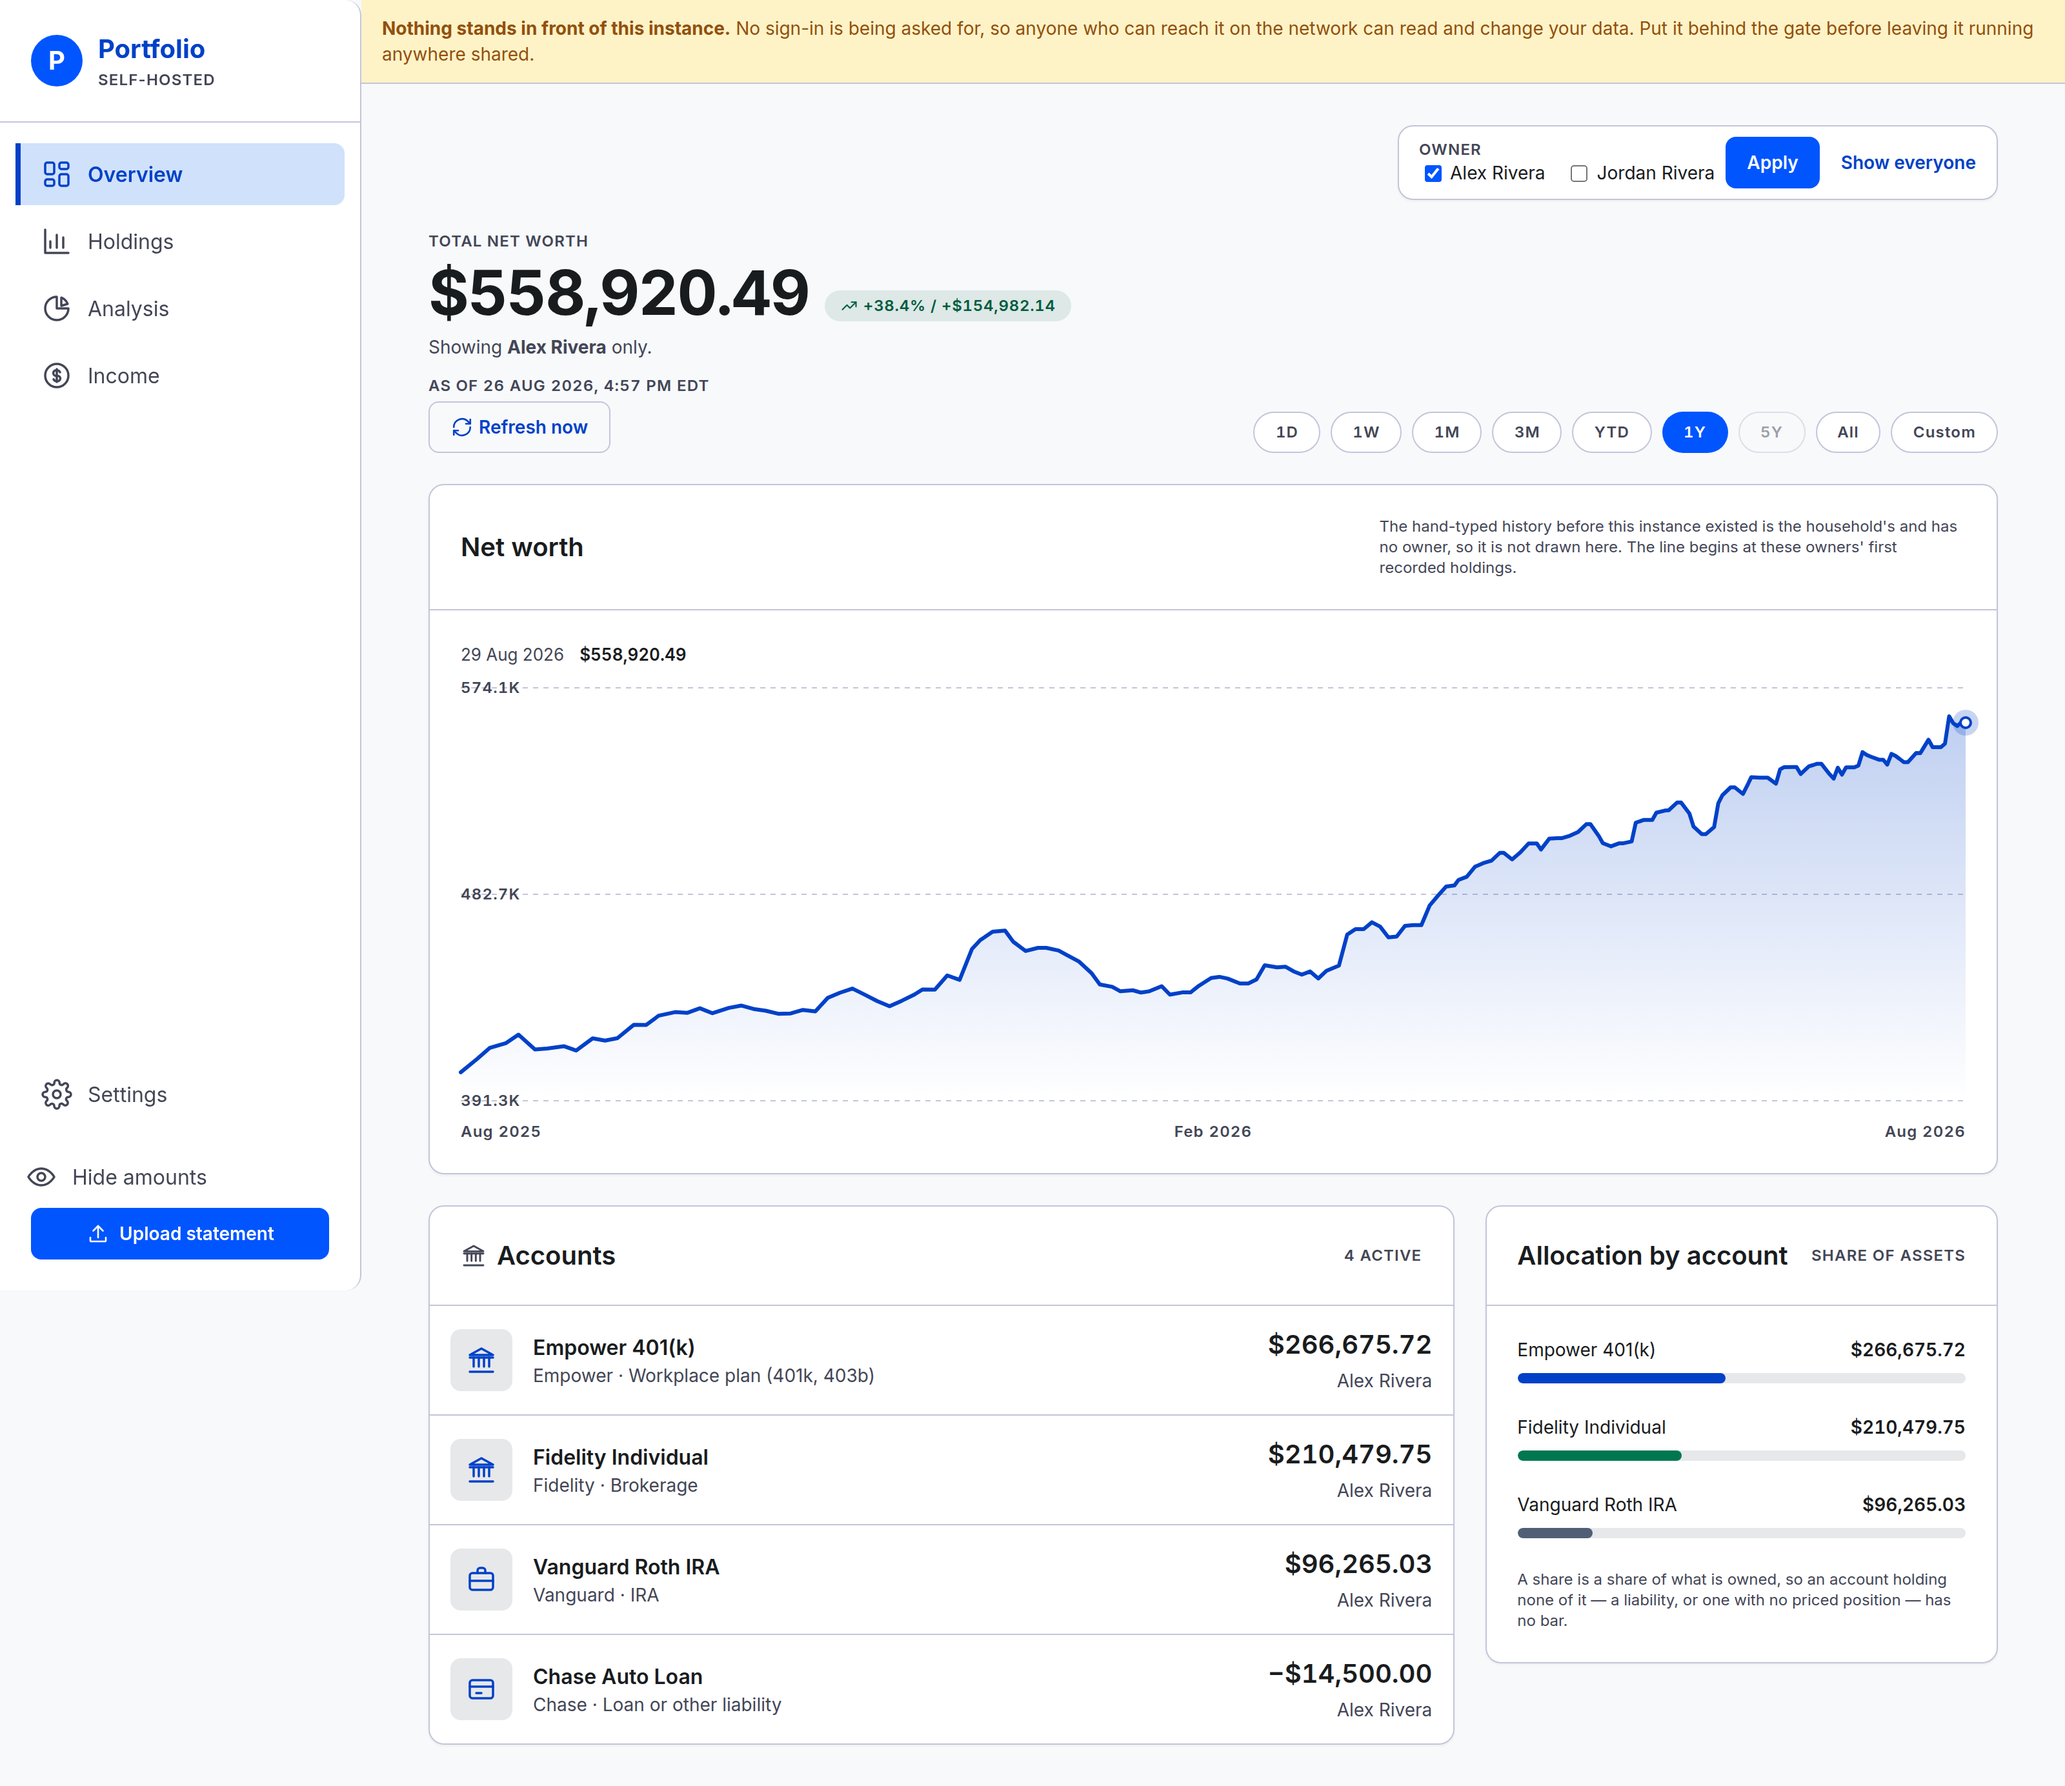
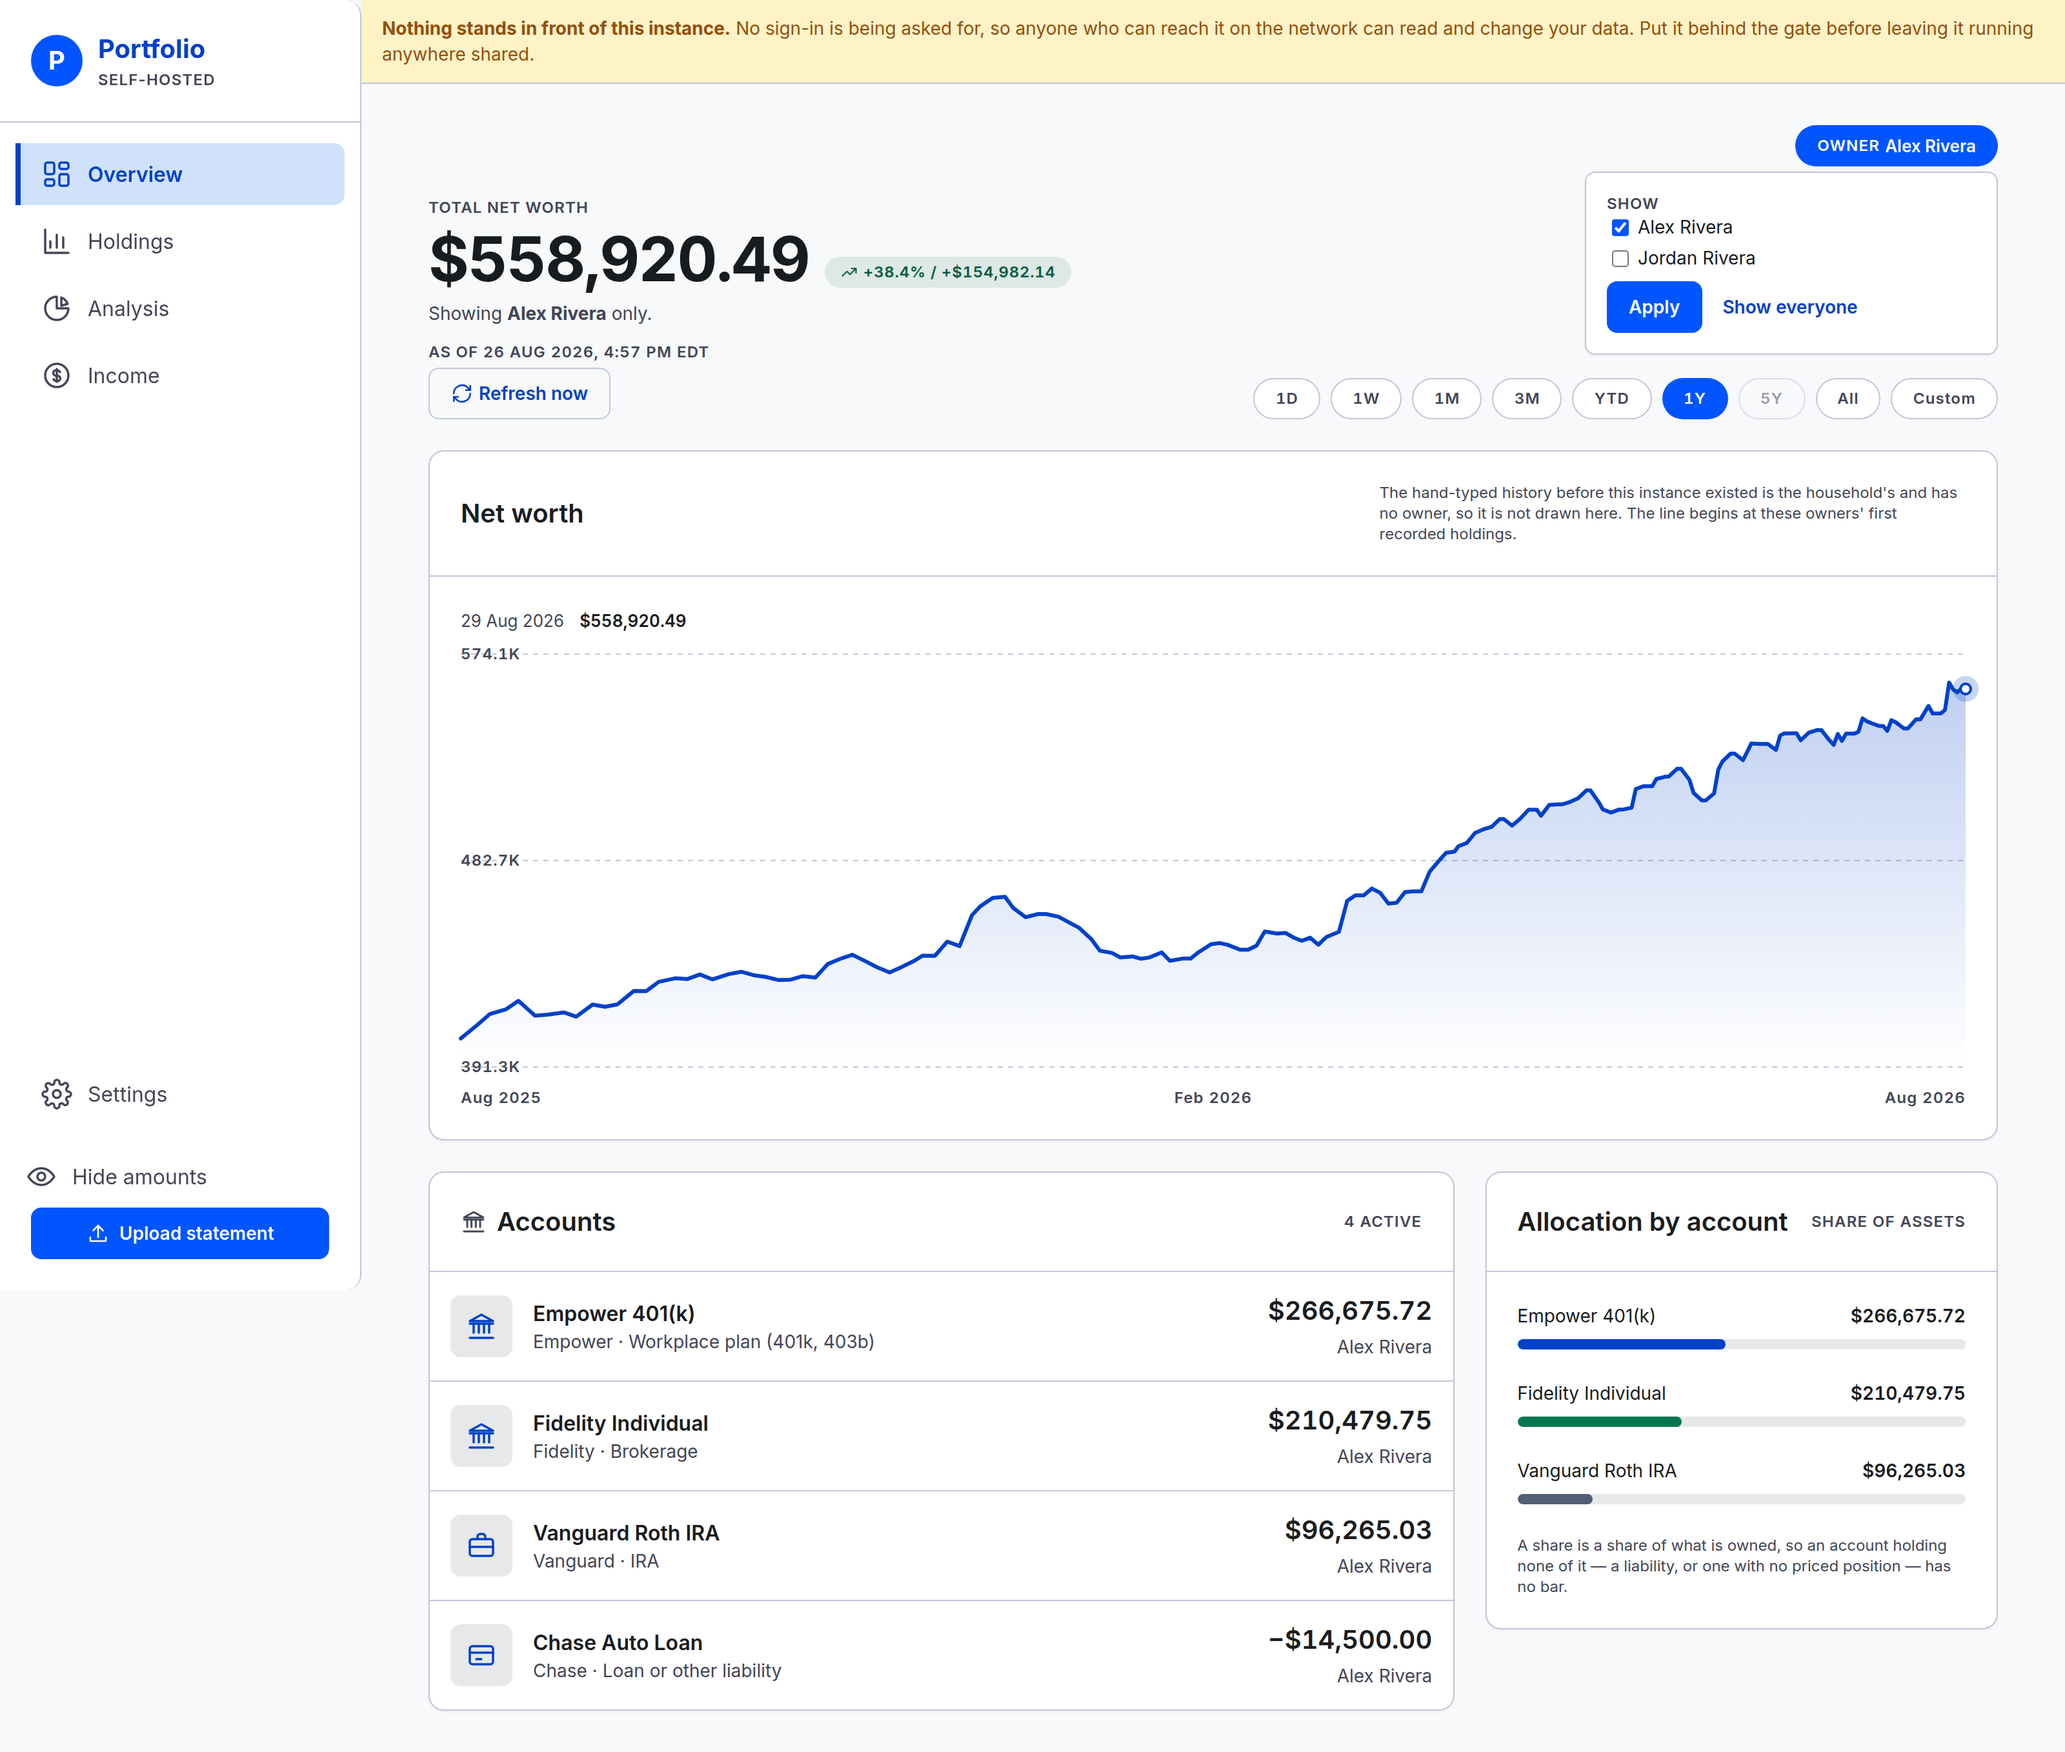
Photograph the owner control as a disclosure, and describe it as one
The control changed shape, so every shot carrying it is stale — which is
the retake trigger `docs/screenshots/README.md` states in its own words.
All of them are retaken.

The two owner shots are captured with the menu open. A `<details>` loads
closed, so a capture would otherwise photograph a pill reading "Alex
Rivera" — true, and not what those shots are of. Opening it is the reader's
own first action and a state the application draws itself; nothing is
hand-edited. The click is on the summary, so a change to the control's
markup fails the capture rather than silently shooting the closed state.

The guide's "how to narrow" is three steps now rather than two, and says
what the closed button says, since that is what makes a filter set on
another screen visible. The README gains the layout argument beside the
others: a row of tick boxes grows with the household and wraps at a
different width on each of the four screens, so the one control meant to
look identical everywhere was the one whose layout tracked how many people
were recorded.

One thing the shots caught that no test would: the summary's caption took
`.u-label`'s own colour, a surface-variant grey chosen against the canvas,
which on the filled applied state was barely legible — the one state the
caption most has to be readable in. It inherits now.

Claude-Session: https://claude.ai/code/session_01JvmzRjHfTMsQ13qZnUEgY7

diff --git a/scripts/capture-screenshots.ts b/scripts/capture-screenshots.ts
@@ -413,6 +413,22 @@ async function prepare(pool: Pool): Promise<Fixture> {
   };
 }
 
+/**
+ * Open the owner filter's disclosure before shooting it.
+ *
+ * The control is a `<details>`, so a page loads with it closed and a capture
+ * would photograph a pill reading "Alex Rivera" — true, and not what these two
+ * shots are of. Opening it is the reader's own first action and a state the
+ * application draws itself; nothing here is hand-edited. The click is on the
+ * summary, so a change to the control's markup fails this rather than silently
+ * shooting the closed state.
+ */
+async function openOwnerFilter(page: Page): Promise<void> {
+  const summary = page.locator(".owner-filter > summary");
+  await summary.click();
+  await page.locator(".owner-filter[open]").waitFor({ state: "visible" });
+}
+
 /** The README's shots: both themes, plus the two phone ones. */
 async function captureReadme(browser: Browser, pool: Pool, fixture: Fixture): Promise<void> {
   console.log("\nREADME — docs/screenshots/");
@@ -430,6 +446,7 @@ async function captureReadme(browser: Browser, pool: Pool, fixture: Fixture): Pr
     // owners named beneath it, and the pre-app line withheld. A control nobody
     // can see in the README is a feature nobody knows exists.
     await visit(page, `/?owner=${ownerId}`);
+    await openOwnerFilter(page);
     await shoot(page, `docs/screenshots/overview-owner-${theme}.png`);
 
     // The one range that is not a span of days (ADR-0006). Shot separately
@@ -517,6 +534,7 @@ async function captureGuide(browser: Browser, pool: Pool, fixture: Fixture): Pro
   await visit(page, "/holdings?group=assetClass");
   await shoot(page, "docs/guide/images/holdings-grouped.png");
   await visit(page, `/holdings?owner=${ownerId}`);
+  await openOwnerFilter(page);
   await shoot(page, "docs/guide/images/holdings-owner.png");
   await visit(page, `/holdings?account=${brokerage}&edit=${editRow}`);
   await page.locator("table").first().screenshot({

diff --git a/app/app.css b/app/app.css
@@ -3097,6 +3097,13 @@ code {
   color: var(--on-primary-container);
 }
 
+/* The caption takes the summary's colour rather than `.u-label`'s own, which is
+ * a surface-variant grey chosen against the canvas and unreadable on the filled
+ * applied state — the one state the caption most has to be legible in. */
+.owner-filter > summary .u-label {
+  color: inherit;
+}
+
 /* The hard stop that keeps the promise above: one very long name cannot widen
  * the header, it truncates. The count form is short by construction. */
 .owner-filter-summary {

diff --git a/README.md b/README.md
@@ -144,13 +144,20 @@ the cost basis become boxes in their own columns, and Save records it.
 
 <picture>
   <source media="(prefers-color-scheme: dark)" srcset="docs/screenshots/overview-owner-dark.png">
-  <img alt="The Overview narrowed to one owner: a checkbox per owner in the page header with Apply and Show everyone beside them, a smaller headline figure with the sentence &quot;Showing Alex Rivera only.&quot; beneath it, and a note on the chart saying the hand-typed history before the instance existed is the household's and is not drawn here" src="docs/screenshots/overview-owner-light.png">
+  <img alt="The Overview narrowed to one owner: the owner control open in the page header, showing a tick box per owner with Apply and Show everyone beneath them, a smaller headline figure with the sentence &quot;Showing Alex Rivera only.&quot; below it, and a note on the chart saying the hand-typed history before the instance existed is the household's and is not drawn here" src="docs/screenshots/overview-owner-light.png">
 </picture>
 
 "What does this look like for just Alex?" is a question about four screens, not one, so the answer
 is one selection that follows you across them: a control in the page header names the household's
 owners, and Overview, Holdings, Analysis and Income all read as whichever are chosen. The guide has
 the [how](docs/guide/owner-filter.md); what follows is why it is shaped this way.
+
+- **The control is a disclosure, and that is a layout decision.** A row of tick boxes grows with the
+  household and wraps at a different width on each of the four screens, so the one control meant to
+  look identical everywhere was the one whose layout tracked how many people happened to be
+  recorded. Closed, it is a fixed shape that says who is being shown — a name or two, a count past
+  that. `<details>` is the browser's own disclosure, so this costs no JavaScript, as the custom
+  range picker beside it already showed.
 
 - **It is noise reduction, never privacy.** Anyone may set it, clear it, and set it to anybody; the
   gate at the front door is the only thing that keeps anyone out, and every family member sees

diff --git a/docs/guide/owner-filter.md b/docs/guide/owner-filter.md
@@ -7,24 +7,27 @@ read as one owner instead — or as two of five, or as everyone but one.
 
 ## How to narrow
 
-The control is in the header of each of those four screens, at the top right: a tick box per owner
-and an **Apply** button.
+The control is in the header of each of those four screens, at the top right. Closed, it is a single
+button saying who you are looking at — **Everyone**, until you say otherwise.
 
-1. Tick one or more names.
-2. Press **Apply**.
+1. Click it. A tick box per owner drops down.
+2. Tick one or more names.
+3. Press **Apply**.
 
-Every figure on the screen is now those owners': the total, the chart, every table, every ring,
-every subtotal.
+Nothing changes until you press Apply: the boxes are a form, and ticking one only fills it in.
+
+Every figure on the screen is then those owners': the total, the chart, every table, every ring,
+every subtotal. The button says who — a name or two while there are few enough to read, a count past
+that — so a filter you set on another screen is never invisible.
 
 Three things on Holdings deliberately stay the household's, because their whole job is to tell you
 what the narrowing left out — the "filtered from" count, the "recorded in all" figure beside an empty
 table, and the filter dropdowns, whose options are read from every holding so that narrowing can
 never leave you without a way to widen again.
 
-**To widen again**, press **Show everyone**. It sits beside Apply whenever a filter is applied — so
-it is there to be pressed on the narrowed screen you are reading, not the moment you tick a box.
-Nothing happens until Apply either way: the boxes are a form, and the screen only changes when you
-submit it.
+**To widen again**, open the control and press **Show everyone**, which sits beside Apply whenever a
+filter is applied. A screen the filter has emptied puts that link on the page as well, so the way out
+of a screen showing nothing is always on the screen showing nothing.
 
 Ticking every name is the same as no filter at all — everybody is the household — so the app says so
 by tidying the address back to the unnarrowed one.

diff --git a/docs/guide/holdings.md b/docs/guide/holdings.md
@@ -8,7 +8,7 @@ Every position the household holds, in one table you can narrow, group and sort.
 
 There are seven dimensions. **Six work as both a filter and a grouping. Owner groups only** —
 narrowing to an owner is a household-wide reading you set once and carry across all four money
-screens, from the control at the top of this one. See
+screens, from the control at the top of this one — the button naming who you are looking at. See
 [reading a screen as one owner](owner-filter.md).
 
 - **Owner** — who the account belongs to. Grouping only; the control at the top does the narrowing.
